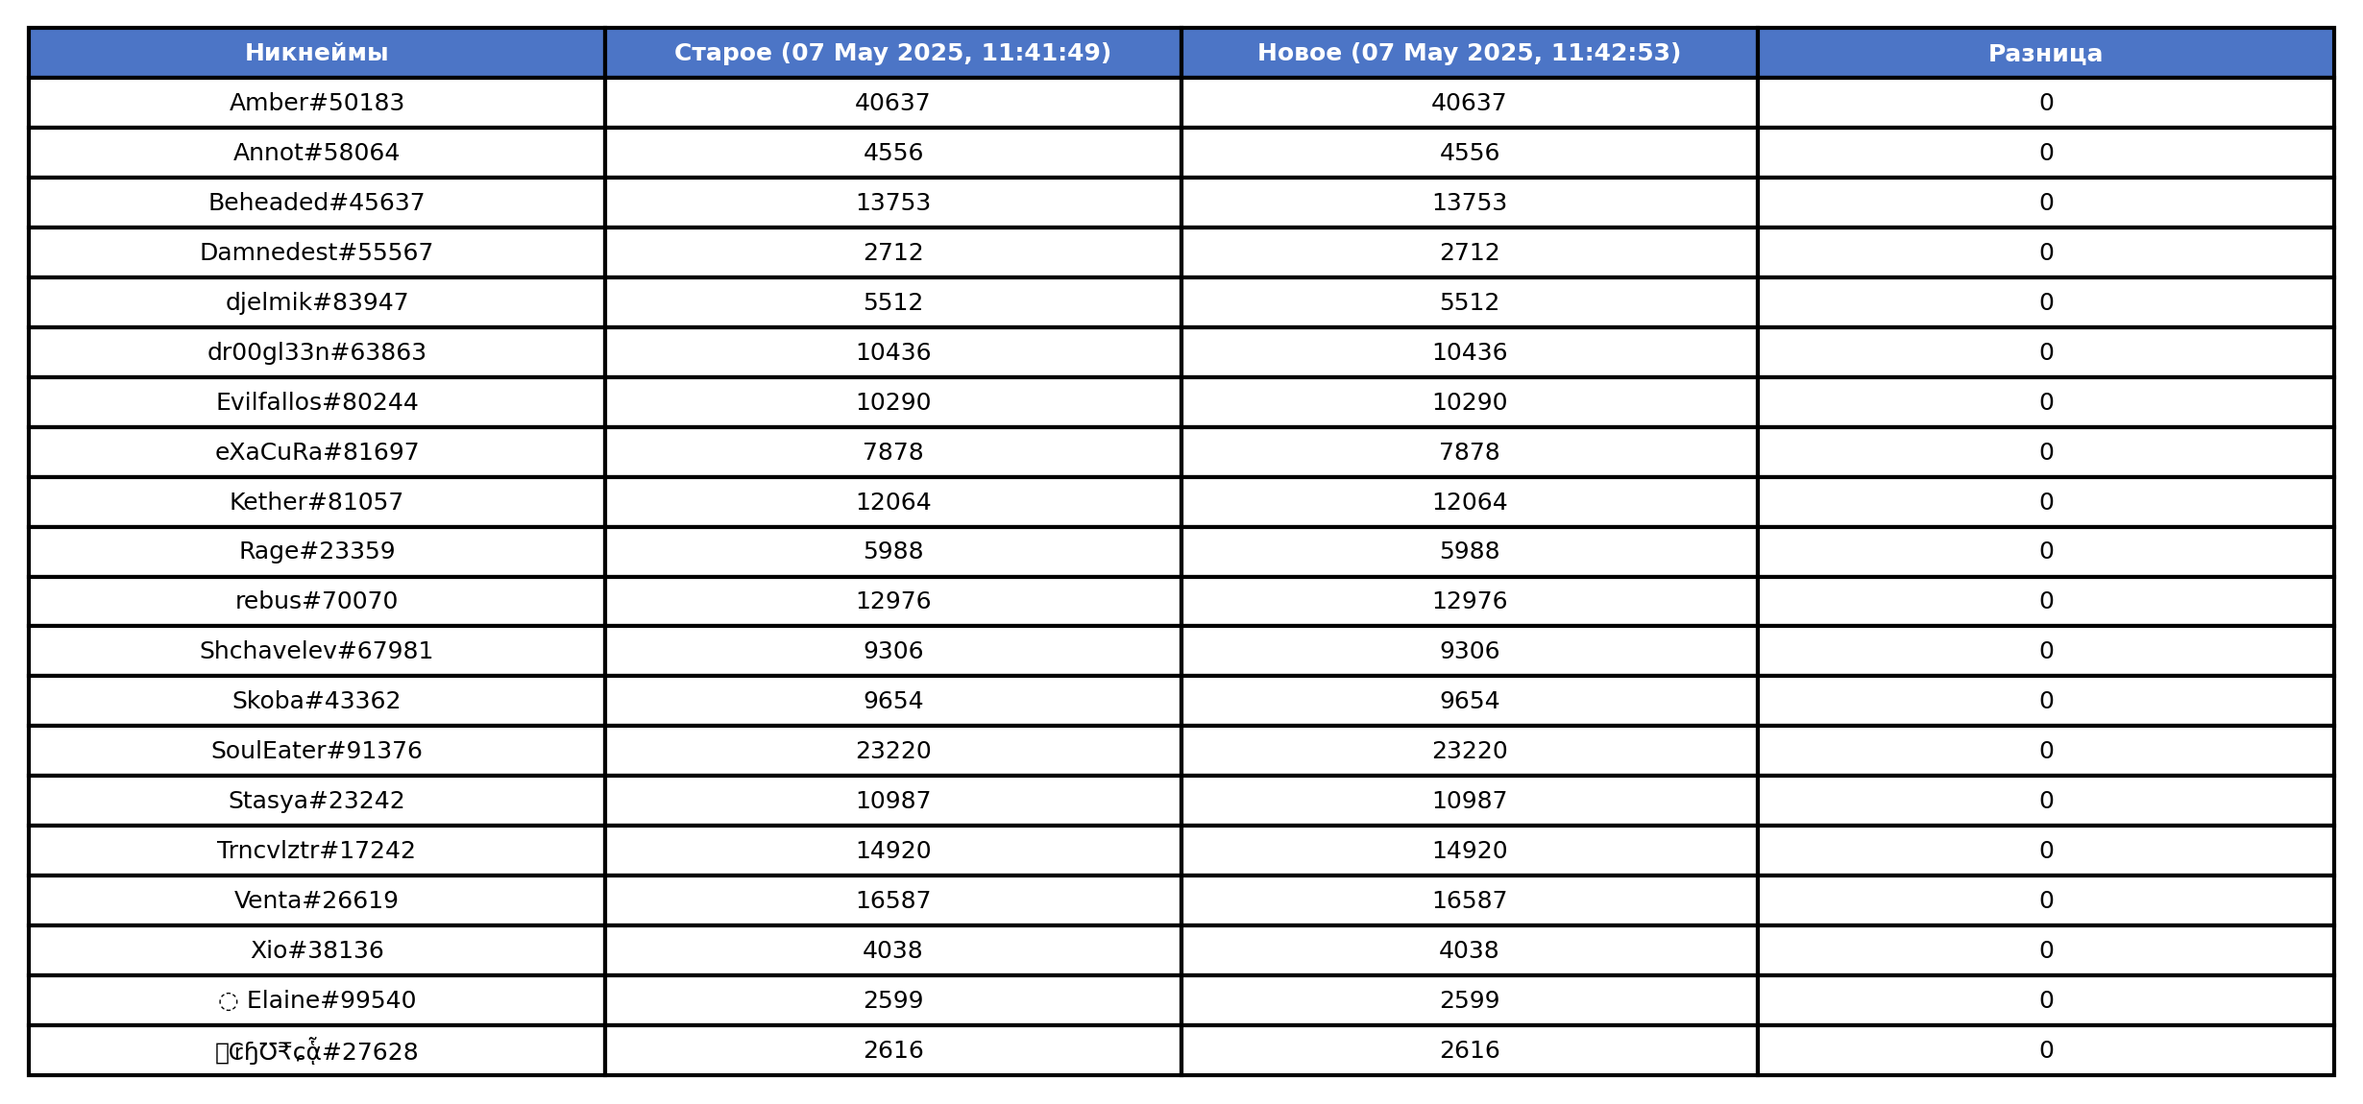
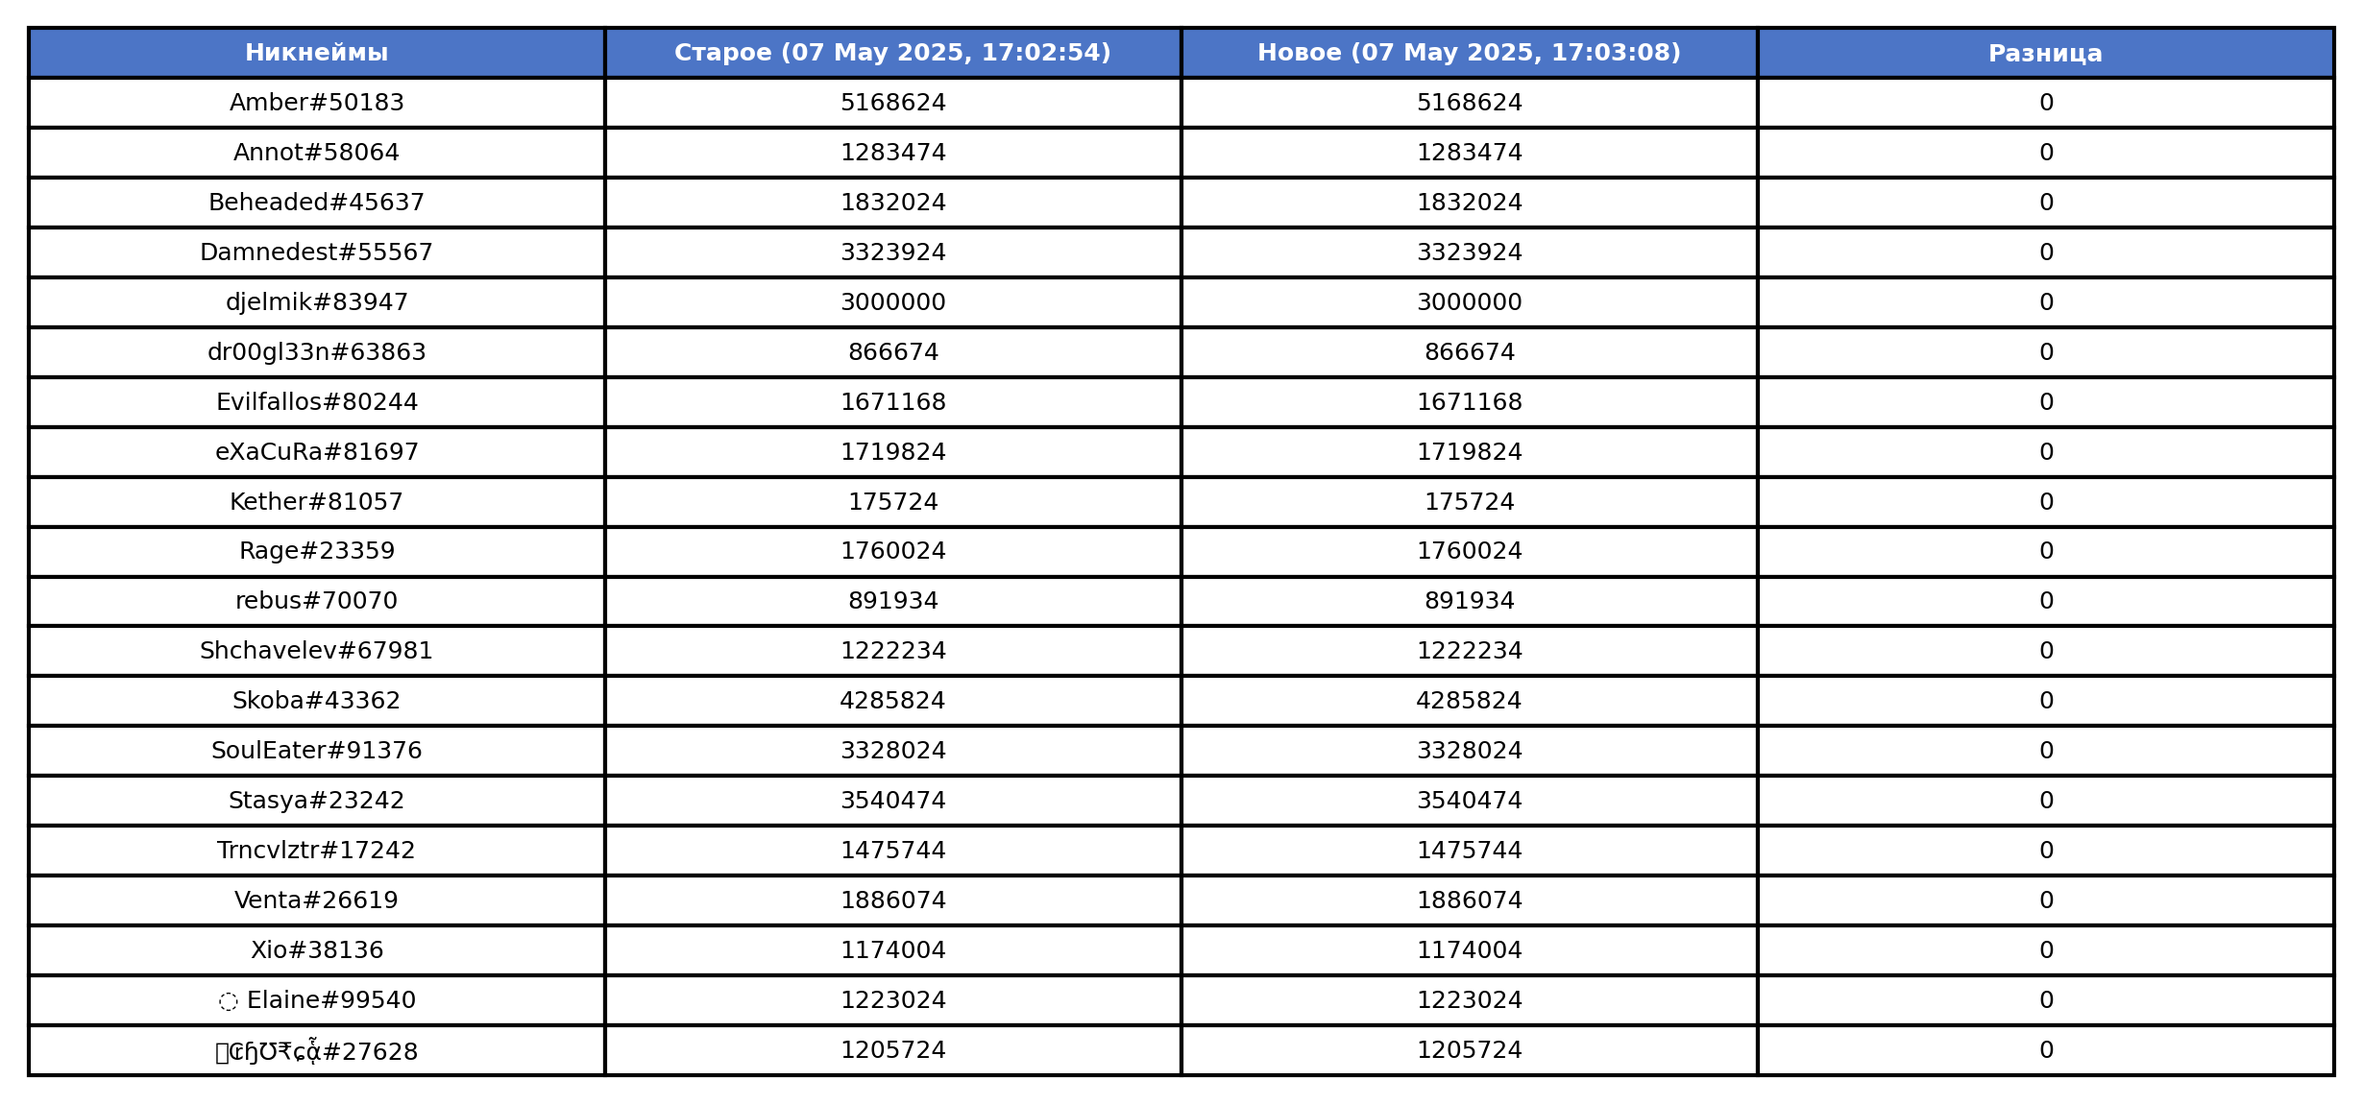
workable full bot

diff --git a/main.py b/main.py
@@ -2,46 +2,55 @@ import asyncio
 import logging
 import sys
 
-from aiogram import Bot, Dispatcher
+from aiogram import Bot, Dispatcher, F
 from aiogram.client.default import DefaultBotProperties
 from aiogram.enums import ParseMode
-from aiogram.filters import CommandStart, Command
-from aiogram.types import Message, FSInputFile
+from aiogram.filters import CommandStart, Command, BaseFilter
+from aiogram.types import Message, FSInputFile, CallbackQuery
+from aiogram.exceptions import TelegramBadRequest
 from datetime import datetime
+from typing import List, Union
 
 from asynctable import get_header, main_table
 from database import update_guild_id, update_token, create_db, insert_initial_data
+from keyboards import get_inline_keyboard
 
-TOKEN = "6918113998:AAGONq-xqSqvsvjjVK-Ils2Iylx8J1LrURw"
-ADMIN_IDS = [1223634387]
+TOKEN = "7037297011:AAF0j67AXCDyK1To_9ngN3h60G7B8TY6-4U"
+
+
+ADMIN_IDS: List[str] = [1223634387]
 
 dp = Dispatcher()
+
+class AdminFilter(BaseFilter):
+    async def __call__(self, update: Union[Message, CallbackQuery]) -> bool:
+        return update.from_user.id in ADMIN_IDS
+
+admin_filter = AdminFilter()
 
 @dp.message(CommandStart())
 async def command_start_handler(message: Message) -> None:
     await create_db()
-    await insert_initial_data()
+    await insert_initial_data() 
     guild_name, global_rank, country_rank = await get_header()
     await message.answer(
         f"Здравствуй, это гильдия <b>{guild_name}</b>\n"
         f"Наш глобальный ранг: <b>{global_rank}</b>\n"
-        f"Рейтинг по стране: <b>{country_rank}</b>"
+        f"Рейтинг по стране: <b>{country_rank}</b>", reply_markup=await get_inline_keyboard()
     )
 
-@dp.message(Command("table"))
-async def table_handler(message: Message) -> None:
+@dp.callback_query(F.data == "table")
+async def table_handler(callback: CallbackQuery) -> None:
     file_name = f"{datetime.now().date()}"
-    await message.answer("Ваша таблица генерируется, подождите немного...")
+    await callback.message.answer("Ваша таблица генерируется, подождите немного...")
     await main_table(file_name)
     await asyncio.sleep(3)
     
     photo = FSInputFile(f"images/{file_name}.png")
-    try:
-        await message.answer_photo(photo=photo, caption="Ваша таблица готова")
-    except Exception as e:
-        await message.answer(f"Произошла ошибка при отправке таблицы")
+    await callback.message.answer_photo(photo=photo, caption="Ваша таблица готова")
+    await callback.answer()
     
-@dp.message(Command("update_token"))
+@dp.message(Command("update_token"), admin_filter)
 async def update_token_handler(message: Message) -> None:
     parts = message.text.split(maxsplit=1)
     if len(parts) < 2:
@@ -54,7 +63,7 @@ async def update_token_handler(message: Message) -> None:
     except Exception as e:
         await message.answer(f'Произошла ошибка при обновлении токена: {str(e)}')
 
-@dp.message(Command("update_guild_id"))
+@dp.message(Command("update_guild_id"), admin_filter)
 async def update_guild_handler(message: Message) -> None:
     parts = message.text.split(maxsplit=1)
     if len(parts) < 2:
@@ -67,59 +76,92 @@ async def update_guild_handler(message: Message) -> None:
     except Exception as e:
         await message.answer(f"Произошла ошибка при обновлении ID гильдии: {str(e)}")
 
-        
-@dp.message(Command("append_admin"))
-async def append_admin(message: Message):
-    if len(message.text.split(" ")) == 2:
-        admin_id = int(message.text.split(" ")[1])
-        ADMIN_IDS.append(admin_id)
-        await message.answer(f"{admin_id} теперь администратор ему открыты следующие уровни доступа:\n "
+
+@dp.message(Command("addadmin"), admin_filter)
+async def cmd_addadmin(message: Message):
+    try:
+        parts = message.text.split(" ")
+    except TelegramBadRequest:
+        await message.answer('Использование: /addadmin <user_id>')
+        return
+    if len(parts) != 2 or not parts[1].isdigit():
+        return await message.reply("Использование: /addadmin <user_id>")
+    
+    new_admin_id = int(parts[1])
+    ADMIN_IDS.append(new_admin_id)
+    await message.answer(f"{new_admin_id} теперь администратор ему открыты следующие уровни доступа:\n "
                              "Смена guild_id: https://union-titans.fr/en/guilds/ [оно находится здесь]\n "
                              "Команда /update_guild_id [новый guild_id]\n"
-                             "Так же доступна смена api_token для полноценной работы бота, по команде /update_token <token>"
+                             "Так же доступна смена api_token для полноценной работы бота, по команде /update_token [token]"
                              "Найти токен можно по ссылке: https://union-titans.fr/en/guides/api")
-    else:
-        await message.answer('Что-то пошло не так')
-
-
-@dp.message(Command("startsheduler"))
-async def start_sheduler(message: Message, count = 0, stop_func = 100):
-    splitted = message.text.split(" ")
-    delay = 60*60*24*7
-    if len(splitted) == 2:
-        print(count)
-        if count == 0:
-            print('work1')
-            if splitted[1] == "stop":
-                stop_func = 0
-                return
-            if len(splitted) == 2:
-                if splitted[1] == "hour":
-                    delay = 60*60
-                    print('work2')
-                elif splitted[1] == "day":
-                    delay = 60*60*24
-                    print('work3')
-                elif splitted[1] == "week":
-                    delay = 60*60*24*7
-                    print('work4')
     
-    await message.answer(f'Планировщик запущен на {delay//(60*60)} час(а)')
-    if stop_func == 0:
-        return
-    else:
-        file_name = f"{datetime.now().date()}"
-        photo = FSInputFile(f'images/{file_name}.png')
-        await asyncio.sleep(delay)
+@dp.message(Command("adminlist"), admin_filter)
+async def admin_list_getter(message: Message):
+    await message.answer(f"Список: {', '.join(list(map(str, ADMIN_IDS)))}")
+        
+
+@dp.callback_query(F.data == "sheduler", admin_filter)
+async def start_scheduler(callback: CallbackQuery, count=0):
+    # Интервал в секундах - 7 дней
+    week_delay = 60 * 60 * 24 * 7
+
+    now = datetime.now()
+    weekday = now.weekday()  # Понедельник=0 ... Воскресенье=6
+
+    # Если сегодня воскресенье (6)
+    if weekday == 6:
+        await callback.message.answer("Сегодня воскресенье! Отправляю таблицу и запускаю еженедельный планировщик.")
+        file_name = f"{now.date()}"
         await main_table(file_name)
+        photo = FSInputFile(f'images/{file_name}.png')
         await asyncio.sleep(3)
-        count += 1
-        await message.answer_photo(photo=photo, caption=f'Ваша таблица на {file_name}')
-        if stop_func == 0:
-            await start_sheduler(message, count, stop_func)
-        else:
-            await start_sheduler(message, count)
-            
+        await callback.message.answer_photo(photo=photo, caption=f"Ваша таблица на {file_name}")
+
+        # Запускаем цикл с недельным интервалом
+        while True:
+            await asyncio.sleep(week_delay)
+            file_name = f"{datetime.now().date()}"
+            await main_table(file_name)
+            photo = FSInputFile(f'images/{file_name}.png')
+            await asyncio.sleep(3)
+            await callback.message.answer_photo(photo=photo, caption=f"Ваша таблица на {file_name}")
+
+    else:
+        # Сегодня не воскресенье - считаем сколько осталось до ближайшего воскресенья
+        days_until_sunday = (6 - weekday) % 7
+        if days_until_sunday == 0:
+            days_until_sunday = 7  # Если сегодня воскресенье, но на всякий случай
+
+        seconds_until_sunday = days_until_sunday * 24 * 60 * 60
+
+        await callback.message.answer(
+            f"Сегодня не воскресенье. Таблица будет отправлена в ближайшее воскресенье через {days_until_sunday} дн."
+        )
+        await callback.answer()
+
+        # Ждем до ближайшего воскресенья
+        await asyncio.sleep(seconds_until_sunday)
+
+        # Отправляем таблицу в воскресенье
+        file_name = f"{datetime.now().date()}"
+        await main_table(file_name)
+        photo = FSInputFile(f'images/{file_name}.png')
+        await asyncio.sleep(3)
+        await callback.message.answer_photo(photo=photo, caption=f"Ваша таблица на {file_name}")
+
+        # Запускаем цикл с недельным интервалом
+        await callback.answer()
+        while True:
+            await asyncio.sleep(week_delay)
+            file_name = f"{datetime.now().date()}"
+            await main_table(file_name)
+            photo = FSInputFile(f'images/{file_name}.png')
+            await asyncio.sleep(3)
+            await callback.message.answer_photo(photo=photo, caption=f"Ваша таблица на {file_name}")
+
+@dp.message(F.text)
+async def error_message(message: Message):
+    await message.answer("Я вас не понял, возможно вы допустили ошибку")
 
 async def main() -> None:
     bot = Bot(token=TOKEN, default=DefaultBotProperties(parse_mode=ParseMode.HTML))

diff --git a/asynctable.py b/asynctable.py
@@ -62,7 +62,7 @@ async def extract_table_data():
         return [], [], [], "", "", ""
 
     nicknames = [member['playerName'] for member in members]
-    current_bounties = [int(member['bounty']) for member in members]
+    current_bounties = [int(member['invest']//1000000) for member in members]
 
     base_filename = "baseline.json"
 
@@ -87,12 +87,16 @@ async def extract_table_data():
 
     return nicknames, previous_bounties, current_bounties, diffs, first_updated_at, last_updated_at
 
-async def create_table(file_name) -> None:
+async def create_table(
+    file_name: str,
+    sort_by: str = "Разница",  # Название столбца для сортировки
+    ascending: bool = True       # Порядок сортировки
+) -> None:
     nicknames, previous, current, diffs, first_updated_at, last_updated_at = await extract_table_data()
     if not nicknames:
         return None
 
-    # Создаем DataFrame
+    # Создаем DataFrame с динамическими заголовками
     df = pd.DataFrame({
         'Никнеймы': nicknames,
         f'Старое ({first_updated_at})': previous,
@@ -100,38 +104,51 @@ async def create_table(file_name) -> None:
         'Разница': diffs
     })
 
-    # Создаем изображение с помощью matplotlib
-    fig, ax = plt.subplots(figsize=(10, len(df) * 0.2))  # Размер таблицы зависит от количества строк
+    # Проверяем, что сортируемый столбец есть в таблице
+    if sort_by not in df.columns:
+        sort_by = 'Никнеймы'  # По умолчанию сортируем по никнеймам
+
+    # Сортируем DataFrame по выбранному столбцу
+    df = df.sort_values(by=sort_by, ascending=ascending).reset_index(drop=True)
+
+    # Создаем изображение таблицы
+    fig, ax = plt.subplots(figsize=(10, max(2, len(df) * 0.2)))  # высота зависит от количества строк
     ax.axis('tight')
     ax.axis('off')
 
-    # Отображаем таблицу с улучшенным стилем
-    table = ax.table(cellText=df.values, colLabels=df.columns, loc='center', cellLoc='center', colColours=["#6fa3ef"]*len(df.columns), cellColours=[['#e8f1ff']*len(df.columns)]*len(df)) 
+    # Создаем таблицу в matplotlib с отсортированными данными
+    table = ax.table(
+        cellText=df.values,
+        colLabels=df.columns,
+        loc='center',
+        cellLoc='center',
+        colColours=["#6fa3ef"] * len(df.columns),
+        cellColours=[['#e8f1ff'] * len(df.columns)] * len(df)
+    )
 
-    # Настройка шрифта и цвета для таблицы
+    # Настройка стилей ячеек (заголовки, выделение diff)
     for (i, j), cell in table.get_celld().items():
         if i == 0:
             cell.set_fontsize(14)
-            cell.set_text_props(weight='bold', color='white')  # Белый текст для заголовков
-            cell.set_facecolor('#4c75c6')  # Синий цвет для заголовков
+            cell.set_text_props(weight='bold', color='white')
+            cell.set_facecolor('#4c75c6')
         else:
             cell.set_fontsize(12)
-            cell.set_text_props(weight='normal', color='black')  # Черный текст для данных
-            if j == 3:  # Для колонки "Разница" используем выделение положительных/отрицательных значений
-                if df.iloc[i-1, j] > 0:
-                    cell.set_facecolor('#d9ffcc')  # Зеленый для положительных
-                elif df.iloc[i-1, j] < 0:
-                    cell.set_facecolor('#ffcccc')  # Красный для отрицательных
+            cell.set_text_props(weight='normal', color='black')
+            if df.columns[j] == 'Разница':
+                val = df.iloc[i - 1, j]
+                if val > 0:
+                    cell.set_facecolor('#d9ffcc')  # Зеленый
+                elif val < 0:
+                    cell.set_facecolor('#ffcccc')  # Красный
                 else:
-                    cell.set_facecolor('#ffffff')  # Белый для 0
+                    cell.set_facecolor('#ffffff')  # Белый
             else:
-                cell.set_facecolor('#ffffff')  # Белый для других данных
+                cell.set_facecolor('#ffffff')
 
-    # Убираем лишние поля
     plt.subplots_adjust(left=0.1, right=0.9, top=0.9, bottom=0.1)
-
-    # Сохраняем изображение без белых полей
     plt.savefig(f"images/{file_name}.png", bbox_inches="tight", dpi=300, pad_inches=0.1)
+    plt.close(fig)  # Закрываем фигуру, чтобы не накапливать память
     print(f"Таблица успешно создана и сохранена в images/{file_name}.png")
 
 async def main_table(file_name):

diff --git a/keyboards.py b/keyboards.py
@@ -1,0 +1,10 @@
+from aiogram.types import InlineKeyboardMarkup, InlineKeyboardButton
+
+async def get_inline_keyboard():
+    kb = [[InlineKeyboardButton(text="Создать таблицу", callback_data="table"),
+    InlineKeyboardButton(text="Запланированный запуск", callback_data="sheduler")]]
+    keyboard = InlineKeyboardMarkup(inline_keyboard=kb)  
+
+    
+    return keyboard
+

diff --git a/debug.py b/debug.py
@@ -1,0 +1,14 @@
+import copy
+
+a = [1]
+b = [2]
+
+c = [a, b]
+
+d = copy.deepcopy(c)
+
+a.append(22)
+b.append(32)
+
+print(c)
+print(d)
